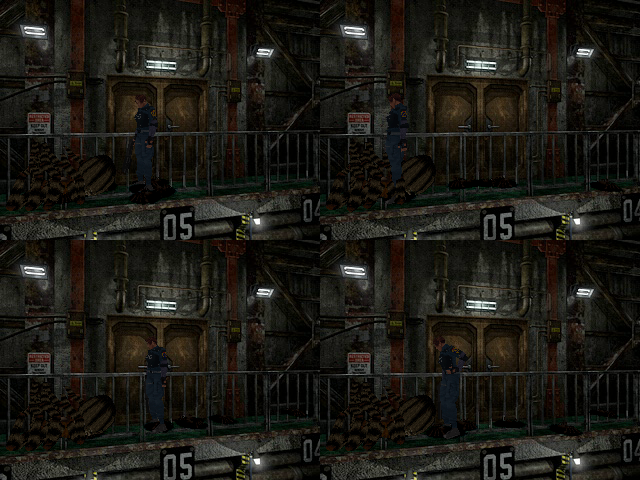
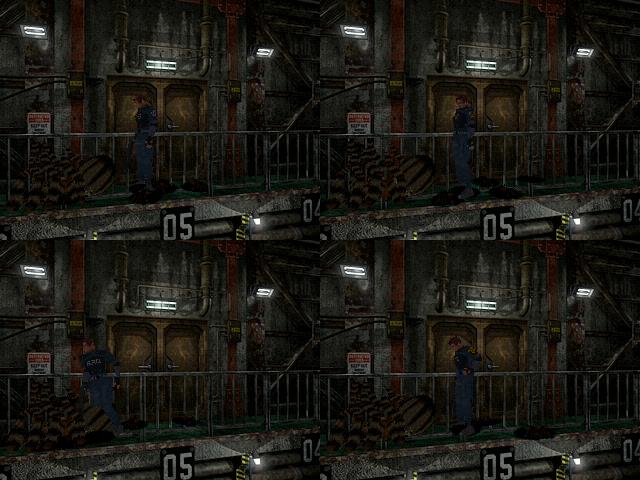
wip(r38-spinnen): Baby-Wurzel komplett - Kugel-Schub FUN_80035530 (`jal 0x80034d0c` @0x80035590) vor dem Wandpass
Kugeln selbst gelesen: Spieler 450/-1530/1530 (@0x8003bdc0-ec), Baby 10/-10/10 (@0x80100168-78), Adult +0x9A 1000
(@0x801063A0/C0/E0); Gates word0&2 (Adult-Tod `ori 0x42` @0x80103df4, Baby-Fall `ori 0x2` @0x8010078c),
Kreuzungsausstoss @0x80034f18-35044. ROOM2030 nachher: 0 schwebende Baby-Bilder, am Boden innerhalb r 459 um Leon
45 (vorher 1035), 22 Bisse.

diff --git a/re15_port/engine/src/spinnen_r38.c b/re15_port/engine/src/spinnen_r38.c
@@ -24,6 +24,8 @@
 #include "re15_esp_brocken.h"   /* re15_esp_fx_zeile_weiter = FUN_800174e4 */
 #include "re15_scd.h"            /* g_scd.props = Obj_model_set-Pool 0x800b3f98 (Teil 4) */
 #include "re15_ai_flavor.h"      /* re15_ai_re2_for_type / re15_re2spider_owns (Teil 4) */
+#include "re15_math.h"          /* re15_squareroot0 = FUN_8008d2f4 (Teil 3b) */
+#include "re15_enemy_ai.h"      /* RE15_AI_STATE_CORPSE (Teil 3b) */
 
 #include <stdio.h>
 #include <stdlib.h>
@@ -456,21 +458,54 @@ void re15_spinnen_r38_re2_bank(int kind, re15_enemy_bank_t *eb)
 }
 
 /* ============================================================================================
- * Teil 3b — RE2-MINISPINNEN: der WURZEL-SCHWANZ (Wandpass) des Babys
+ * Teil 3b - RE2-MINISPINNEN: der WURZEL-SCHWANZ des Babys (Schub + Wandpass)
  * ============================================================================================
  * GEMESSEN (Fortsetzung 2026-10-17, echte exe, ROOM2030, RE15_SPINNEN_LOG mit der UNABHAENGIGEN
  * Bodengroesse bu = hoechste SCA-Bodenflaeche auf/unter der Figur): 9 von 9 Babys verlassen den Steg,
  * in 14485 von 20025 Baby-Bildern liegt ihre Lage-Y (-5400) UEBER dem Boden unter ihnen (0); sie
  * laufen durch Gelaender und Waende (Lagen bis (42446,-5400,50409), weit ausserhalb des Raums) und
- * schweben ueber der unteren Ebene. Der Port rief fuer das RE2-Baby KEINE Wandklemme (Zweig 0x26 in
- * re15_enemy_ai_run_all: "does NOT translate -> no wall-clamp", ein Satz fuer den RE1.5-Feuer-Emitter).
+ * schweben ueber der unteren Ebene. Der Port rief fuer das RE2-Baby weder Schub noch Wandklemme (Zweig
+ * 0x26 in re15_enemy_ai_run_all: "does NOT translate -> no wall-clamp" = der RE1.5-Feuer-Emitter).
  * ORIGINAL (RE2 EMS26.BIN, Wurzel @0x8010001C, selbst disassembliert):
  *   80100094  lw   a0,0(s0)             ; word0
  *   801000ac  beq  a0,zero,0x801000c8   ; geloescht -> fertig
- *   801000b4  jal  0x80035530           ; Schub aus allen anderen Entities (a0 = self)
- *   801000c0  jal  0x8003567c           ; Wandpass
+ *   801000b4  jal  0x80035530           ; SCHUB aus allen anderen Entities (a0 = self)
+ *   801000c0  jal  0x8003567c           ; WANDPASS
  *   801000c4  addiu a1,zero,1024        ; Maske 0x400
- * FUN_8003567C (RE2 PSX.EXE): `sw zero,272(s0)` @0x8003569c (+0x110 = 0); word0 & 8 -> fertig
+ *
+ * SCHUB FUN_80035530 (RE2 PSX.EXE): FUN_80035408(self, self+56) (Kugeln aus der Lage), +0xD = 255, dann je
+ *   Eintrag der Entity-Liste ab 0x800cfe14 (`addiu s0,s0,-492` @0x80035560) ausser self (`beq s1,a0`
+ *   @0x80035574) mit word0 & 1 (@0x8003557c-88): `jal 0x80034d0c` (a0 = andere, a1 = self) @0x80035590.
+ * FUN_80034d0c(A, B) verschiebt B (self) aus der Kugel von A (je EINE Kugel: +0x1E8 = 1 am Spieler
+ *   `sw v0,488(s2)` @0x8003bddc und am Baby @0x80100164):
+ *   80034d48-50  (A.w0 | B.w0) & 2 -> nichts;  80034d58-60  (A.w0 & B.w0) & 0x1000 -> nichts
+ *   80034d68-6c  B.w0 & 4 -> nichts
+ *   80034de8     R = A.r (+0x9A) + B.r;  dx = B.x - A.x (@0x80034dec), dz analog (@0x80034e10)
+ *   80034df4-fc / 80034e14-1c  `sltu (2R),(d+R)` -> zu weit
+ *   80034e38     dist = SquareRoot0(dx*dx + dz*dz) (`jal 0x8008d2f4`); pen = R - dist (@0x80034e44), <= 0 -> nichts
+ *   80034e50-78  dy = (B.y + B.ofs) - (A.y + A.ofs) (ofs = +0x98), hs = A.h + B.h (h = +0x9E): -hs < dy < hs
+ *   80034e7c-f00 a3 = dx*pen / (dist+1), a2 = dz*pen / (dist+1)
+ *   80034ec4-f10 Vor-Bild-Hoehe (B+0x46 + ofs) ausserhalb -hs..hs -> Kreuzungsausstoss je Achse
+ *                (@0x80034f18-fac / @0x80034fb0-35044): A zwischen Vor- und Jetzt-Lage ->
+ *                a = (+-2*A.r) - (-(d*pen)/(dist+1))
+ *   80035048-a8  A.w0 & 0x100000 -> Kappe +-100 (kein Port-Bit: alle Port-Figuren 0)
+ *   800350b8-cc  `sw v0,56(s1)` / `sw v1,64(s1)`: B.x += a3, B.z += a2
+ * Kugeln (Radius +0x9A, Versatz +0x98, Halbhoehe +0x9E), alle selbst gelesen:
+ *   Spieler 450 / -1530 / 1530: `addiu v1,zero,450 / sh v1,154(s2)` @0x8003bdc0-c4, `addiu v0,zero,-1530 /
+ *     sh v0,152(s2)` @0x8003bde0-e4, `addiu v0,zero,1530 / sh v0,158(s2)` @0x8003bde8-ec
+ *   Baby 10 / -10 / 10: `addiu v0,zero,-10 / sh v0,152(s0)` @0x80100168-6c, `addiu v0,zero,10 / sh v0,154(s0)
+ *     / sh v0,158(s0)` @0x80100170-78
+ *   Adult (RE2-Gehirn) 1000 / +0x98 / +0x9E: alle drei Adult-Tabellen @0x801063A0/@0x801063C0/@0x801063E0
+ *     tragen +0x9A = 1000; +0x98/+0x9E fuehrt der Port (re2_hit_b98/re2_hit_h9e)
+ * word0 & 2: Adult im Tod `ori v0,v0,0x42` @0x80103df4 / @0x801044a0 (Port: Zustand 3 DEATH / 7 CORPSE);
+ *   Baby im Fall `ori v1,v1,0x2` @0x8010078c, geloescht bei der Landung `addiu v1,zero,-3 / and` @0x801007dc-ec
+ *   (Port: Zustand 1 Unterzustand 2 = FALL).
+ * PORT-ZUORDNUNG: die Entity-Liste = g_actors (Spieler-Platz zuerst, dann die Plaetze); andere Figurentypen
+ *   (keine RE2-Kugel im Port) mit ihrem RE1.5-Kasten (hit_radius_min / hit_offset_y / hit_height), wenn sie einen
+ *   tragen und keine Leiche sind - dieselbe Zuordnung wie re15_enemy_body_push_tail; der tote Spieler (hp < 0)
+ *   schiebt nicht (wie re15_body_push_player).
+ *
+ * WANDPASS FUN_8003567C (RE2 PSX.EXE): `sw zero,272(s0)` @0x8003569c (+0x110 = 0); word0 & 8 -> fertig
  *   (`andi v0,v1,0x8 / bne` @0x80035694-98); +0x1E4 != 0 -> fertig (@0x800356a0-a8); sonst
  *   FUN_8004c1bc(self+0x84, `lhu a1,144(s0)` = +0x90, `sllv a2,1,+0x106` = Bandbit, 0x400|0x01000000)
  *   `jal 0x8004c1bc` @0x800356d0 -> +0x110. Radius +0x90 = 10: Baby-INIT `addiu v0,zero,10`
@@ -479,9 +514,80 @@ void re15_spinnen_r38_re2_bank(int kind, re15_enemy_bank_t *eb)
  *   FUN_8004c1bc liest RE2-SCA-Daten, die der Port nicht hat; die Klemme laeuft auf den RE1.5-Raumdaten
  *   ueber re15_collision_constrain_enemy (Band aus Y, Solid-Maske 4 = RE2 0x400). +0x1E4 hat am Baby
  *   keinen Schreiber im Port (memset beim Allokieren) -> 0. */
-void re15_spinnen_r38_baby_schwanz(re15_actor_t *e, int32_t ox, int32_t oz)
+typedef struct { int32_t r, ofs, h; } r38_kugel_t;
+
+static const r38_kugel_t k_kugel_spieler = { 450, -1530, 1530 };   /* @0x8003bdc0-ec */
+static const r38_kugel_t k_kugel_baby    = {  10,   -10,   10 };   /* @0x80100168-78 */
+#define R38_ADULT_KUGEL_R 1000                                       /* +0x9A @0x801063A0/C0/E0 */
+
+/* Kugel und word0 & 2 der anderen Figur A (s.o.). Rueckgabe 0 = A schiebt nicht. */
+static int kugel_von(const re15_actor_t *A, int slot, r38_kugel_t *k)
+{
+    if (slot == RE15_ACTOR_SLOT_PLAYER) { *k = k_kugel_spieler; return 1; }
+    if (A->type == 0x26 && re15_re2spider_baby_owns(A)) {
+        if (A->state == 1 && A->sub_state_1 == 2) return 0;          /* FALL: word0 |= 2 @0x8010078c */
+        *k = k_kugel_baby; return 1;
+    }
+    if (A->type == 0x25 && re15_ai_re2_for_type(A->type) && re15_re2spider_owns(A)) {
+        if (A->state == 3 || A->state == 7) return 0;                /* word0 |= 0x42 @0x80103df4/@0x801044a0 */
+        k->r = R38_ADULT_KUGEL_R; k->ofs = A->re2_hit_b98; k->h = A->re2_hit_h9e; return 1;
+    }
+    if (A->hit_radius_min == 0 || A->state == (uint8_t)RE15_AI_STATE_CORPSE) return 0;   /* PORT-ZUORDNUNG */
+    k->r = (int32_t)A->hit_radius_min; k->ofs = A->hit_offset_y; k->h = (int32_t)A->hit_height;
+    return 1;
+}
+
+/* Kreuzungsausstoss einer Achse (@0x80034f18-fac fuer x, @0x80034fb0-35044 fuer z). */
+static int32_t kreuzung(int32_t a, int32_t d, int32_t pen, int32_t dist, int32_t ar,
+                        int32_t vor_b, int32_t ax, int32_t bx)
+{
+    if (!((vor_b < ax && ax < bx) || (ax < vor_b && bx < ax))) return a;   /* `slt` @0x80034f24-5c */
+    int32_t t = (int32_t)(0u - (uint32_t)(d * pen)) / (dist + 1);         /* `subu v0,zero,t2 / div` */
+    int32_t v = (t > 0) ? (ar << 1) : -(ar << 1);                         /* `bgtz` / `sll v0,s7,1` / `subu` */
+    return v - t;                                                         /* `subu a3,v0,a3` @0x80034fac */
+}
+
+static void kugel_schub(const re15_actor_t *A, r38_kugel_t ka, re15_actor_t *B, r38_kugel_t kb,
+                        int32_t vor_x, int32_t vor_y, int32_t vor_z)
+{
+    const int32_t R  = ka.r + kb.r;                                       /* @0x80034de8 */
+    const int32_t dx = B->x - A->x;                                       /* @0x80034dec */
+    if ((uint32_t)(R << 1) < (uint32_t)(dx + R)) return;                  /* @0x80034df4-fc */
+    const int32_t dz = B->z - A->z;                                       /* @0x80034e10 */
+    if ((uint32_t)(R << 1) < (uint32_t)(dz + R)) return;                  /* @0x80034e14-1c */
+    const int32_t dist = (int32_t)re15_squareroot0((uint32_t)(dx * dx + dz * dz));   /* @0x80034e38 */
+    const int32_t pen  = R - dist;                                        /* @0x80034e44 */
+    if (pen <= 0) return;                                                 /* `blez` @0x80034e48 */
+    const int32_t hs = ka.h + kb.h;                                       /* @0x80034e64 */
+    const int32_t ay = A->y + ka.ofs;
+    const int32_t dy = (B->y + kb.ofs) - ay;                              /* @0x80034e54-60 */
+    if (!(-hs < dy) || !(dy < hs)) return;                                /* @0x80034e6c-78 */
+    int32_t a3 = (dx * pen) / (dist + 1);                                 /* @0x80034e7c-eb4 */
+    int32_t a2 = (dz * pen) / (dist + 1);                                 /* @0x80034ec0-f00 */
+    const int32_t vdy = (vor_y + kb.ofs) - ay;                            /* `lh 20(s2)` + `lh 70(s1)` @0x80034ec4-d4 */
+    if (!(-hs < vdy && vdy < hs)) {                                       /* @0x80034f04-10 */
+        a3 = kreuzung(a3, dx, pen, dist, ka.r, vor_x, A->x, B->x);         /* +0x44 `lh a0,68(s1)` */
+        a2 = kreuzung(a2, dz, pen, dist, ka.r, vor_z, A->z, B->z);         /* +0x48 `lh a0,72(s1)` */
+    }
+    B->x += a3;                                                           /* `sw v0,56(s1)` @0x800350c8 */
+    B->z += a2;                                                           /* `sw v1,64(s1)` @0x800350cc */
+}
+
+void re15_spinnen_r38_baby_schwanz(re15_actor_t *e, int32_t ox, int32_t oy, int32_t oz)
 {
     if (!e || !e->active) return;                             /* `beq a0,zero,0x801000c8` @0x801000ac */
+    /* SCHUB FUN_80035530 @0x801000b4 - B.w0 & 2 (eigener Fall @0x8010078c) sperrt jedes Paar (@0x80034d48-50) */
+    if (!(e->state == 1 && e->sub_state_1 == 2)) {
+        for (int s = RE15_ACTOR_SLOT_PLAYER; s < RE15_ACTOR_MAX; s++) {
+            const re15_actor_t *A = &g_actors[s];
+            if (A == e || !A->active) continue;               /* `beq s1,a0` @0x80035574, word0 & 1 @0x8003557c-88 */
+            if (s == RE15_ACTOR_SLOT_PLAYER && A->hp < 0) continue;
+            r38_kugel_t ka;
+            if (!kugel_von(A, s, &ka)) continue;
+            kugel_schub(A, ka, e, k_kugel_baby, ox, oy, oz);  /* `jal 0x80034d0c` @0x80035590 */
+        }
+    }
+    /* WANDPASS FUN_8003567C(self, 0x400) @0x801000c0 */
     if (e->flags & 0x8u) return;                              /* word0 & 8 @0x80035694-98 */
     if (!g_room_rdt_ok) return;
     int32_t nx = e->x, nz = e->z;

diff --git a/re15_port/include/re15_spinnen_r38.h b/re15_port/include/re15_spinnen_r38.h
@@ -61,12 +61,13 @@ unsigned re15_spinnen_r38_gift_treffer(void);
  * Babys schwebten 1166..1797 ueber ihrer Lage. Gerufen aus re2_ems_load_bank (Haken "Runde 38 Spur R"). */
 void re15_spinnen_r38_re2_bank(int kind, re15_enemy_bank_t *eb);
 
-/* Wurzel-Schwanz des RE2-Babys (EMS26.BIN @0x801000ac-c4): word0 == 0 -> nichts; sonst der Wandpass
- * FUN_8003567C(self, 0x400) mit dem Baby-Radius +0x90 = 10 (@0x80100180) im eigenen Band (-Y)/1800 —
- * Port-Zuordnung auf die RE1.5-SCA-Klemme wie bei Hund/Kraehe/Adult (Maske 4). ox/oz = Lage am
- * Bildanfang (+0x44/+0x48, re2s_pos_snapshot). Gerufen aus enemy_ai_re2_spider.c
- * re15_re2spider_baby_tick (Haken "Runde 38 Spur R"). */
-void re15_spinnen_r38_baby_schwanz(re15_actor_t *e, int32_t ox, int32_t oz);
+/* Wurzel-Schwanz des RE2-Babys (EMS26.BIN @0x801000ac-c4): word0 == 0 -> nichts; sonst der Kugel-Schub
+ * FUN_80035530 (FUN_80034d0c je anderer Figur, Spieler-Kugel 450/-1530/1530 @0x8003bdc0-ec, Baby 10/-10/10
+ * @0x80100168-78) und der Wandpass FUN_8003567C(self, 0x400) mit dem Baby-Radius +0x90 = 10 (@0x80100180)
+ * im eigenen Band (-Y)/1800 - Port-Zuordnung auf die RE1.5-SCA-Klemme wie bei Hund/Kraehe/Adult (Maske 4).
+ * ox/oy/oz = Lage am Bildanfang (+0x44/+0x46/+0x48, re2s_pos_snapshot). Gerufen aus
+ * enemy_ai_re2_spider.c re15_re2spider_baby_tick (Haken "Runde 38 Spur R"). */
+void re15_spinnen_r38_baby_schwanz(re15_actor_t *e, int32_t ox, int32_t oy, int32_t oz);
 
 /* ---- Teil 4: Objekt-Ausschiebung (Aktor-Durchgang des Objekt-Ticks FUN_8002bd44 @0x8002be0c-4c) ---
  * FUN_8002cabc(a0 = Spinne, a1 = Objekt, a2 = 0) je aktivem Obj_model_set-Objekt (obj_id von hinten,

diff --git a/re15_port/engine/src/enemy_ai_re2_spider.c b/re15_port/engine/src/enemy_ai_re2_spider.c
@@ -2988,8 +2988,9 @@ int re15_re2spider_baby_tick(int slot)
     }
 
     e->re2s_f106 = (uint8_t)((-e->y) / 1800);              /* @0x80100080-B0 */
-    re15_spinnen_r38_baby_schwanz(e, (int32_t)s_re2s_prev_x, (int32_t)s_re2s_prev_z);   /* Runde 38 Spur R:
-                                     * Wurzel-Schwanz @0x801000ac-c4 (Wandpass FUN_8003567C, spinnen_r38.c) */
+    re15_spinnen_r38_baby_schwanz(e, (int32_t)s_re2s_prev_x, (int32_t)s_re2s_prev_y,
+                                  (int32_t)s_re2s_prev_z);   /* Runde 38 Spur R:
+                                     * Wurzel-Schwanz @0x801000ac-c4 (Schub FUN_80035530 + Wandpass FUN_8003567C) */
     return 1;
 }
 
